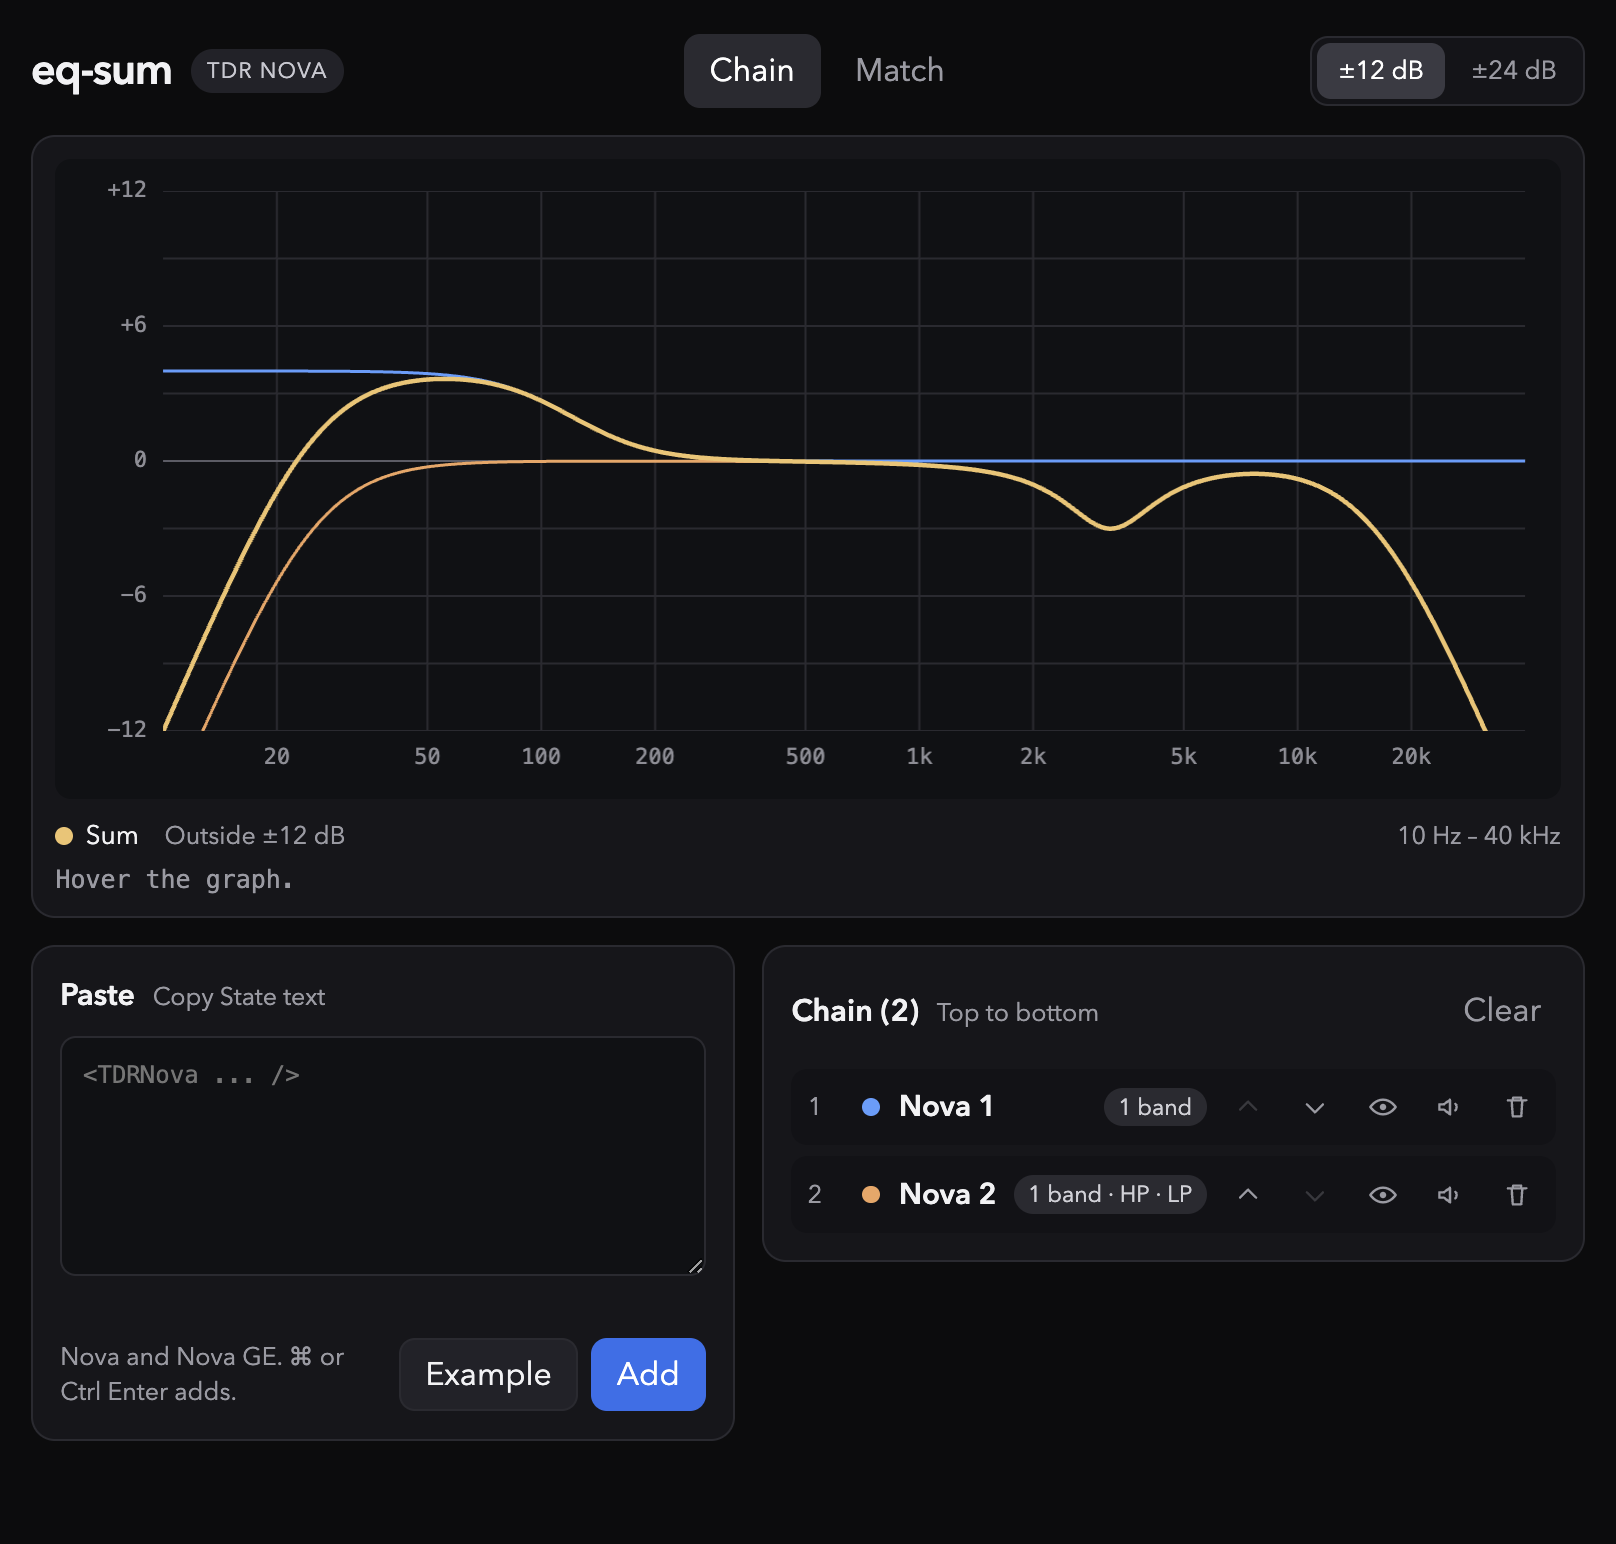
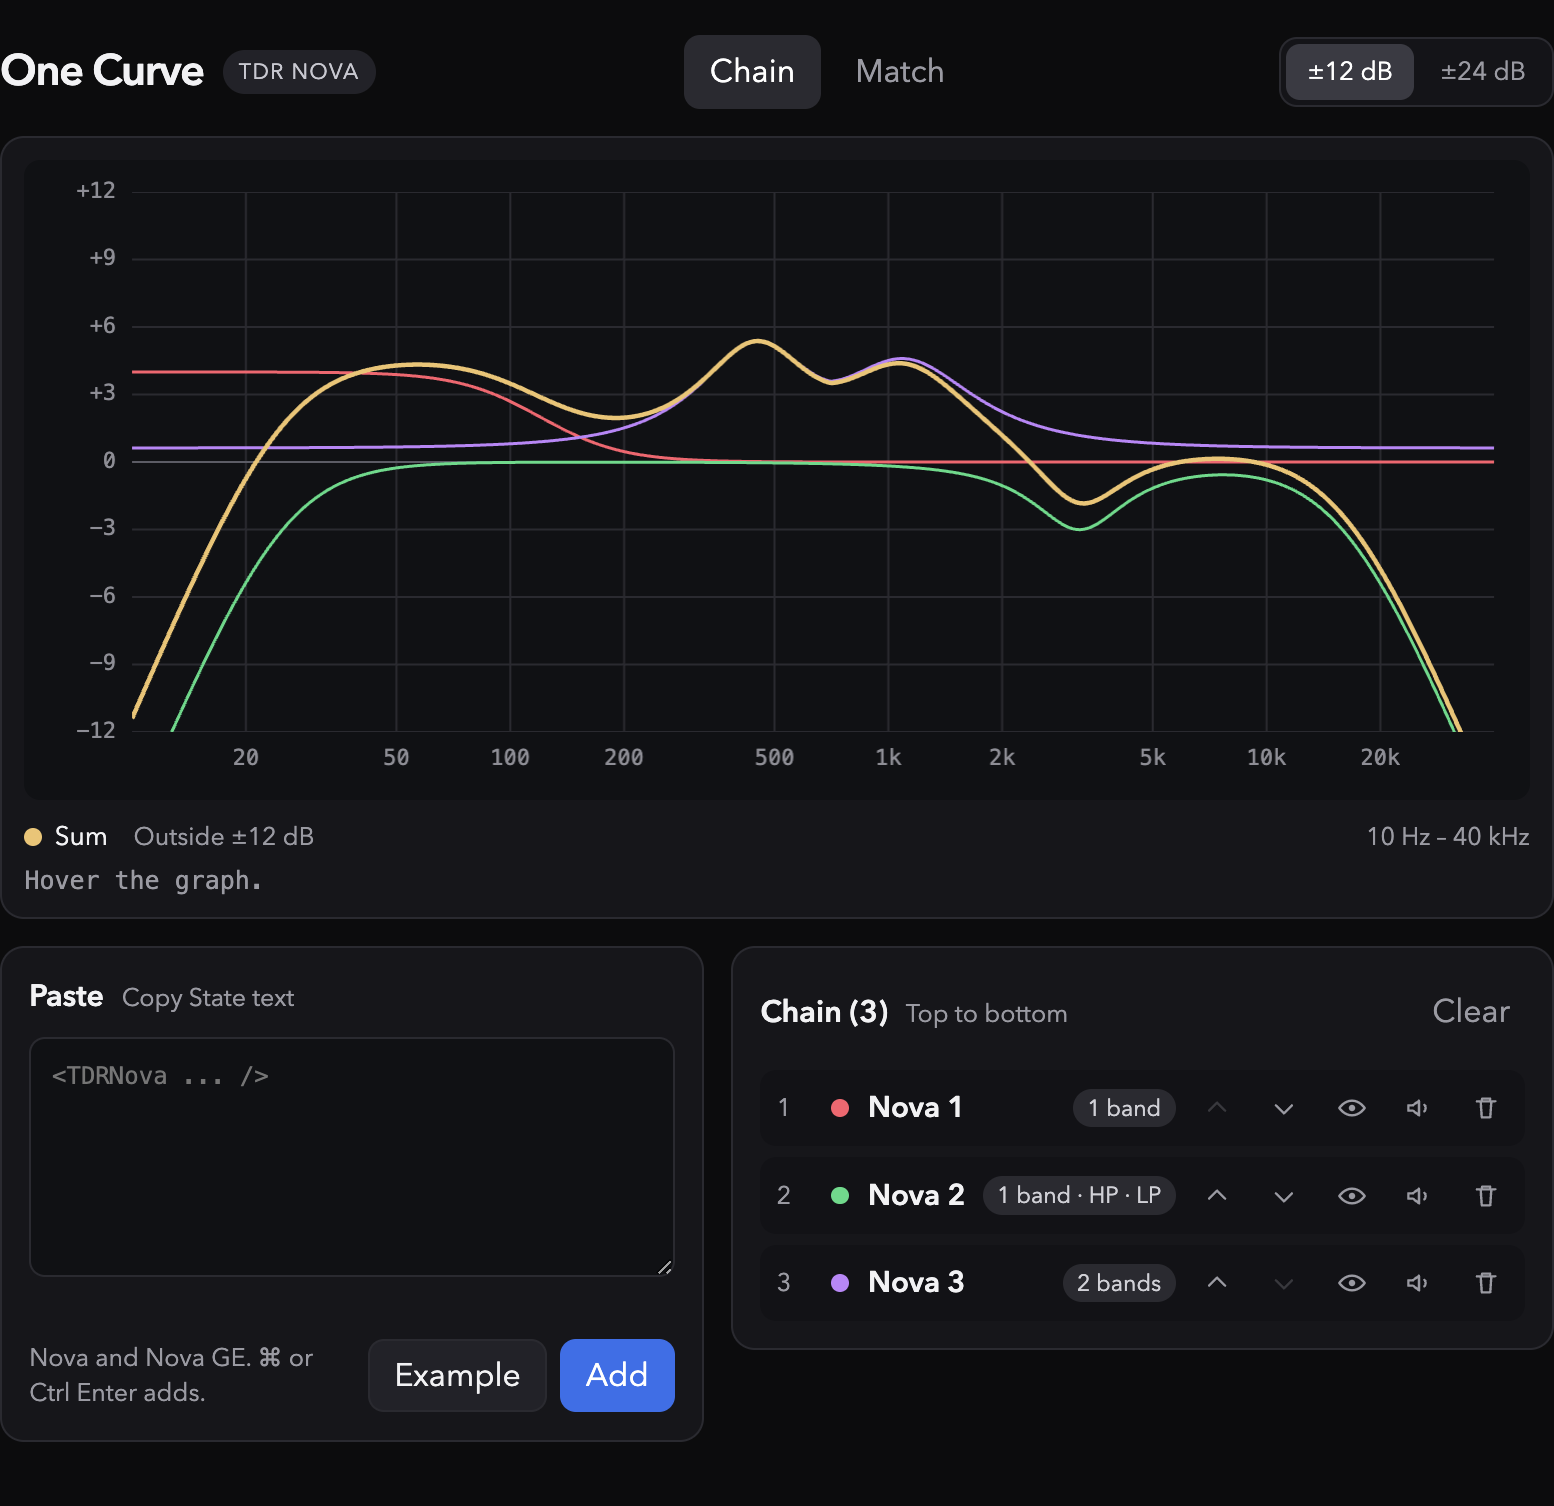
Show the current graph in the page screenshots
Chain, match, and preview now share one graph size and label every dB tick.

diff --git a/README.md b/README.md
@@ -14,7 +14,7 @@ One Curve is an independent project. The repository is still named eq-sum. It is
 
 ## Chain
 
-![Two pasted Nova states and their yellow sum](docs/chain.png)
+![Three pasted Nova states and their yellow sum](docs/chain.png)
 
 Paste two or more Copy State strings. Each curve stays on the graph, and the yellow line is those curves added in dB.
 
